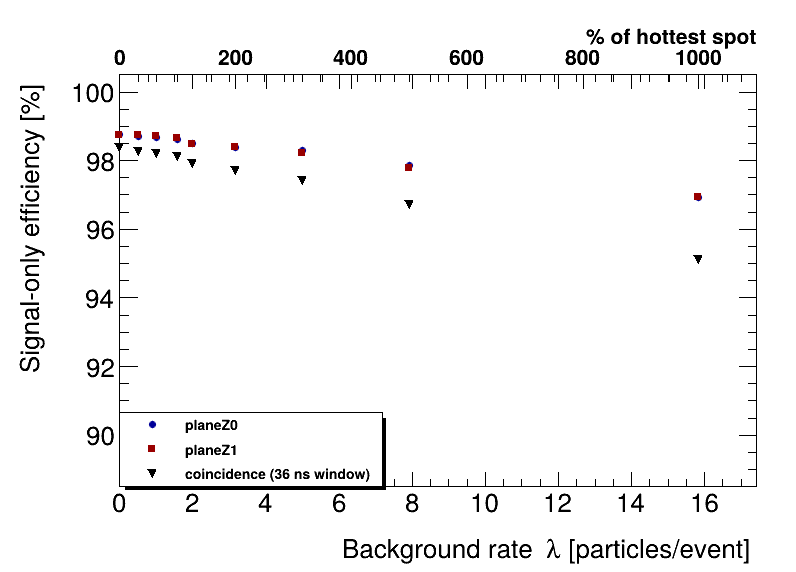
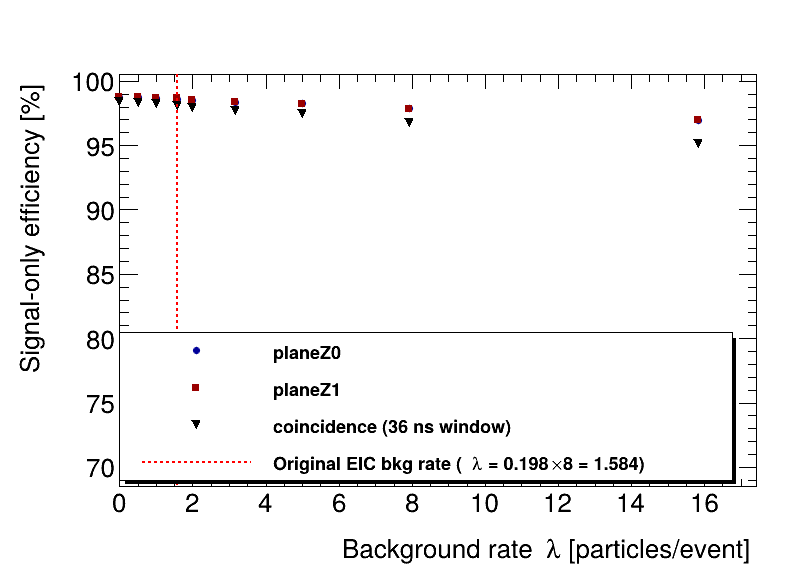
run eff script reverted with out args of res and out dir

diff --git a/plotting_scripts/BkgEff.c b/plotting_scripts/BkgEff.c
@@ -4,7 +4,9 @@
 // Usage (from malta_simulation/):
 //   root -l -b -q plotting_scripts/BkgEff.c           # plane efficiencies only
 //   root -l -b -q 'plotting_scripts/BkgEff.c(1)'      # also overlay coincidence efficiency
-// Coincidence data: Results/coin_eff.csv (run, window_ns, nGen, coinCount, eff_percent)
+// Replot a renamed results directory (e.g. Results_p120GeV_eEIC_mp_coin):
+//   root -l -b -q 'plotting_scripts/BkgEff.c(1, "Results_p120GeV_eEIC_mp_coin", "Plots_p120GeV_eEIC_mp_coin")'
+// Coincidence data: <resDir>/coin_eff.csv (run, window_ns, nGen, coinCount, eff_percent)
 // mapped to background rates via configs/bkg_rate.csv.
 
 #include <fstream>
@@ -17,19 +19,20 @@
 #include "TLegend.h"
 #include "TAxis.h"
 #include "TLine.h"
-#include "TLatex.h"
 #include "TMath.h"
 #include "TStyle.h"
+#include "TString.h"
 #include "TROOT.h"
 #include "TSystem.h"
 
-void BkgEff(int withCoin = 0)
+void BkgEff(int withCoin = 0, const char* resDir = "Results", const char* outDir = "Plots")
 {
     gStyle->SetOptStat(0);
     gROOT->SetStyle("ATLAS");
 
-    std::ifstream in("Results/bkg_eff.csv");
-    if (!in) { std::cerr << "Cannot open Results/bkg_eff.csv" << std::endl; return; }
+    std::string bkgCsv = TString::Format("%s/bkg_eff.csv", resDir).Data();
+    std::ifstream in(bkgCsv.c_str());
+    if (!in) { std::cerr << "Cannot open " << bkgCsv << std::endl; return; }
 
     std::map<int, std::vector<double>> mCount, mEff, mEffErr;
     std::string line;
@@ -49,10 +52,10 @@ void BkgEff(int withCoin = 0)
     }
     in.close();
 
-    if (mEff.empty()) { std::cerr << "No data read from Results/bkg_eff.csv" << std::endl; return; }
+    if (mEff.empty()) { std::cerr << "No data read from " << bkgCsv << std::endl; return; }
 
     // Global y range across all planes
-    double yMin = 40., yMax = 70.;
+    double yMin = 70., yMax = 99.;
     // for (std::map<int, std::vector<double>>::iterator it = mEff.begin(); it != mEff.end(); ++it)
     // {
     //     for (size_t i = 0; i < it->second.size(); ++i)
@@ -84,7 +87,8 @@ void BkgEff(int withCoin = 0)
             }
         }
 
-        std::ifstream coin("Results/coin_eff.csv");
+        std::string coinCsv = TString::Format("%s/coin_eff.csv", resDir).Data();
+        std::ifstream coin(coinCsv.c_str());
         if (coin)
         {
             std::string cl;
@@ -118,7 +122,7 @@ void BkgEff(int withCoin = 0)
         }
         else
         {
-            std::cerr << "Cannot open Results/coin_eff.csv" << std::endl;
+            std::cerr << "Cannot open " << coinCsv << std::endl;
         }
     }
 
@@ -127,7 +131,8 @@ void BkgEff(int withCoin = 0)
     c->SetBottomMargin(0.15);
     c->SetTopMargin(0.13);
 
-    TLegend *leg = new TLegend(0.15, 0.15, 0.48, 0.28);
+    TLegend *leg = new TLegend(0.15, 0.16, 0.92, 0.42);
+    leg->SetTextSize(0.035);
     int colors[6] = {kBlue+2, kRed+2, kGreen+2, kMagenta+2, kOrange+7, kCyan+2};
     int colIdx = 0;
     bool first = true;
@@ -182,17 +187,16 @@ void BkgEff(int withCoin = 0)
     eicLine->SetLineWidth(2);
     eicLine->Draw();
 
-    TLatex *eicLab = new TLatex(eicRate + 0.15, yMax - 2.0, "Original EIC bkg rate");
-    eicLab->SetTextColor(kRed);
-    eicLab->SetTextSize(0.035);
-    eicLab->Draw();
+    leg->AddEntry(eicLine, "Original EIC bkg rate (#lambda = 0.198#times8 = 1.584)", "l");
 
     leg->Draw();
 
-    gSystem->mkdir("Plots", kTRUE);
+    gSystem->mkdir(outDir, kTRUE);
+    std::string outPng = TString::Format("%s/bkg_eff.png", outDir).Data();
+    std::string outPdf = TString::Format("%s/bkg_eff.pdf", outDir).Data();
     c->Modified();
     c->Update();
-    c->SaveAs("Plots/bkg_eff.png");
-    c->SaveAs("Plots/bkg_eff.pdf");
-    std::cout << "Saved Plots/bkg_eff.png and Plots/bkg_eff.pdf" << std::endl;
+    c->SaveAs(outPng.c_str());
+    c->SaveAs(outPdf.c_str());
+    std::cout << "Saved " << outPng << " and " << outPdf << std::endl;
 }
